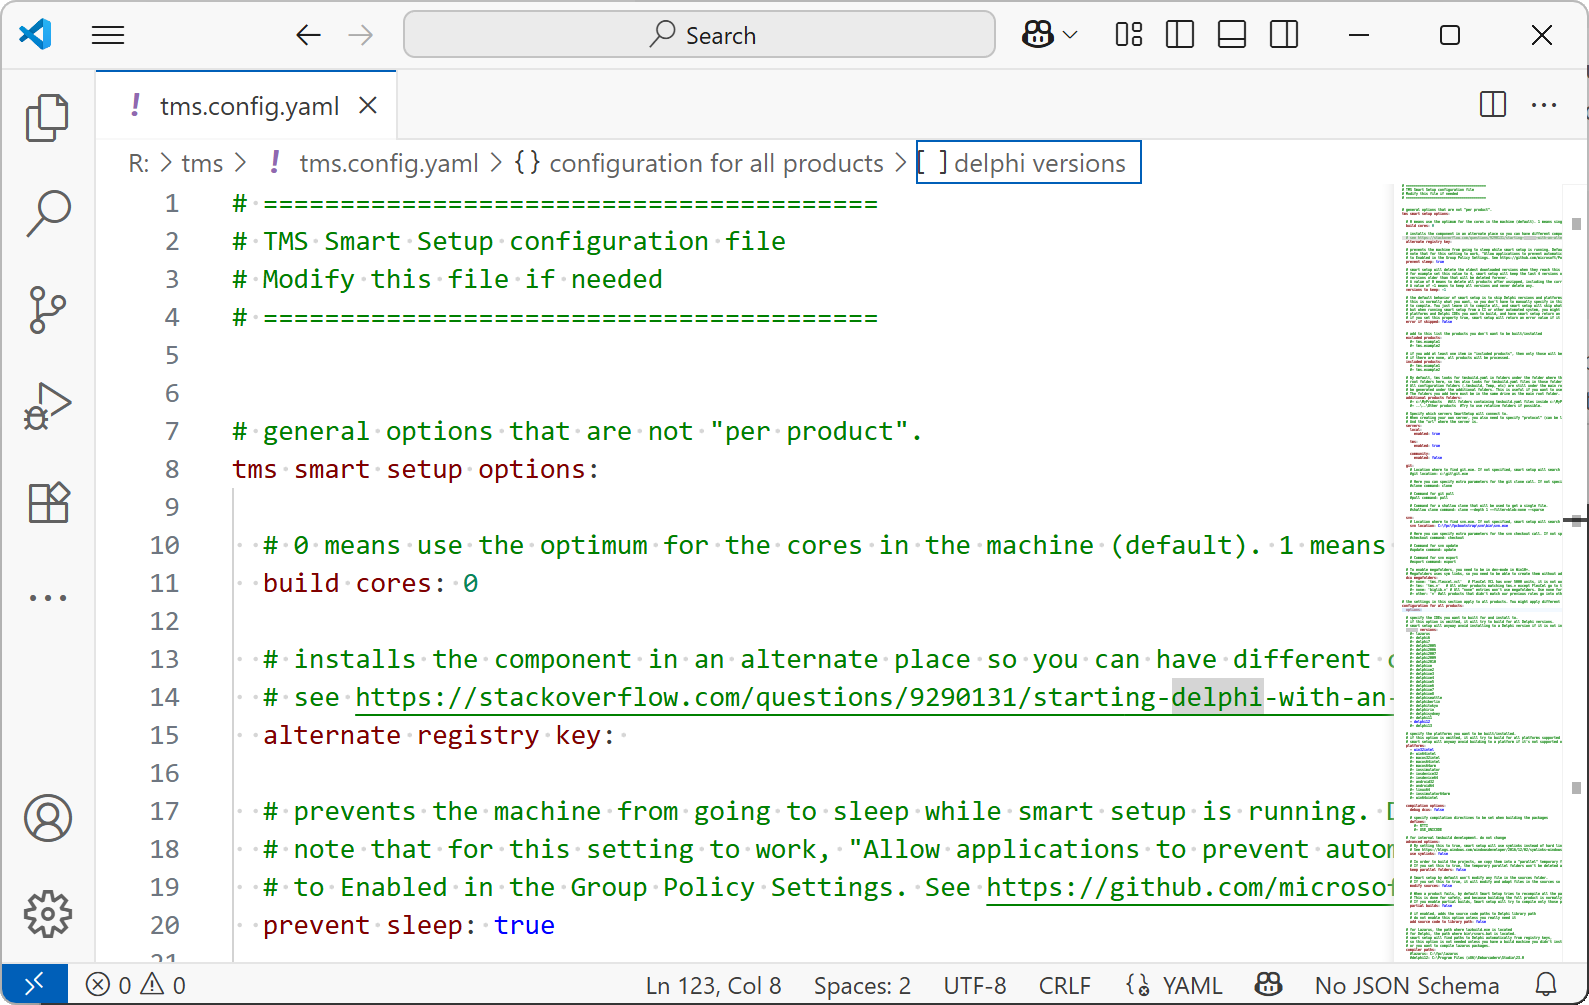
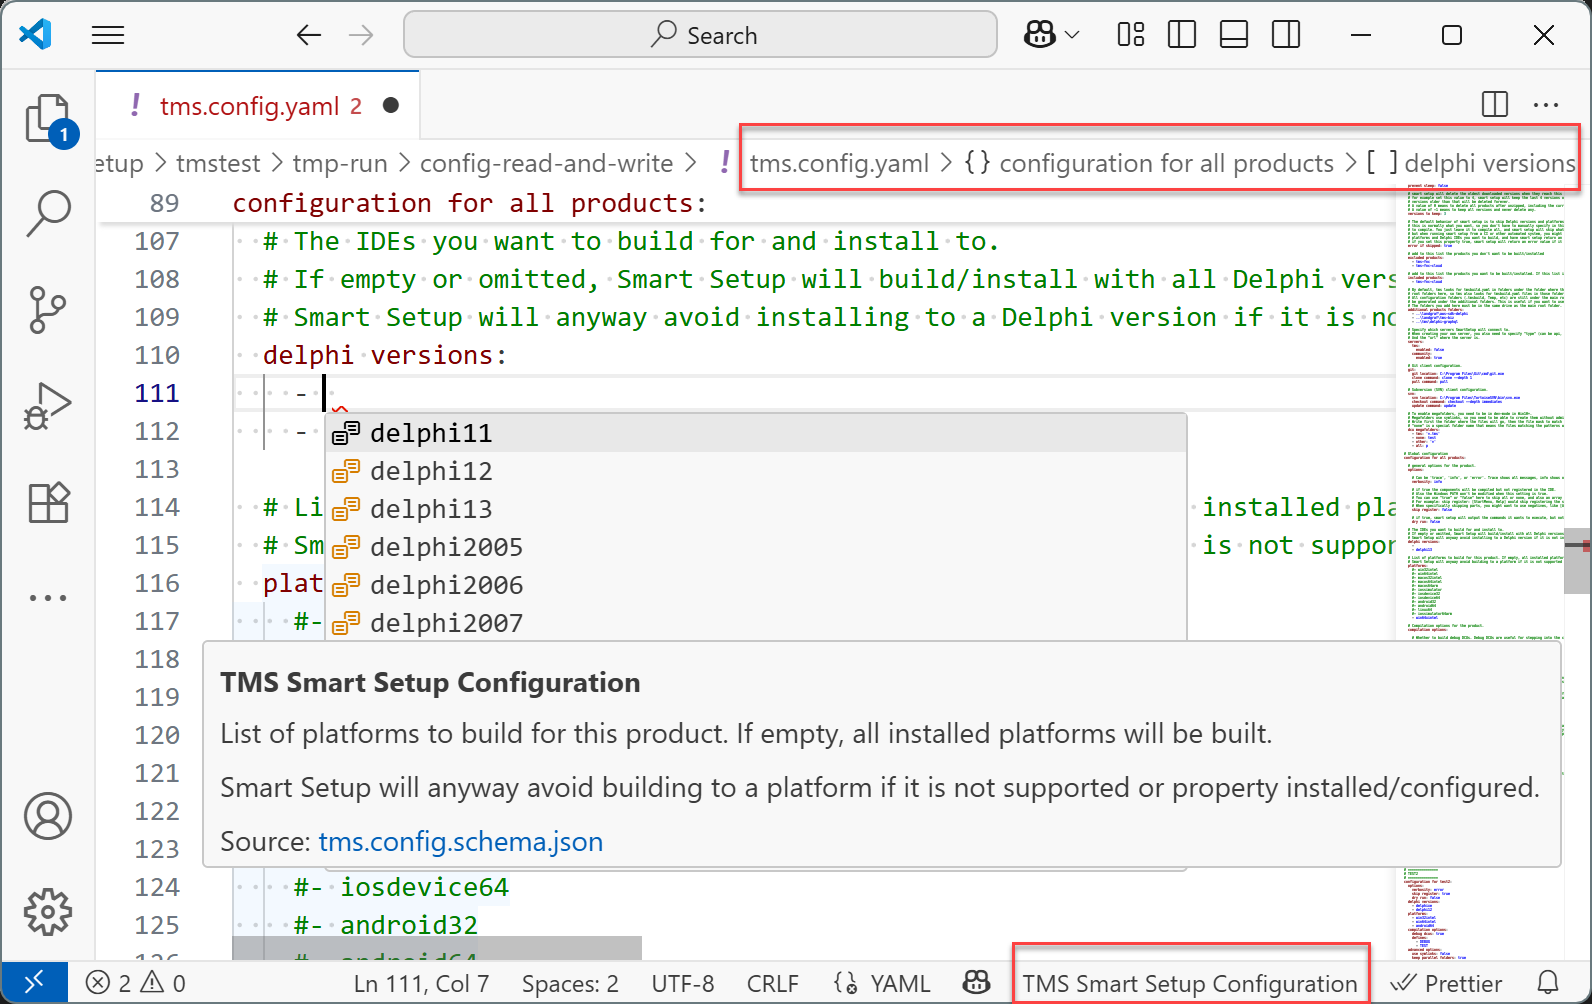
Changed docs to mention the YAML schema

diff --git a/doc/source/guide/configuration.md b/doc/source/guide/configuration.md
@@ -14,6 +14,10 @@ SmartSetup comes with no configuration file by default. To create it, you have t
 Here is how it looks in Visual Studio Code. 
 {{#image}}tms-config-yaml.png{{/image}}
 
+{{#Note}}
+We have a schema for the file available at https://github.com/tmssoftware/smartsetup/blob/main/tms/example-config/tms.config.schema.json Many modern editors, like Jetbrains IDEs, should be able to pick this schema automatically and provide autocompletion and error checking to the file. **To use this in Visual Studio Code, as seen in the screenshot, you need to install the [YAML](https://marketplace.visualstudio.com/items?itemName=redhat.vscode-yaml) extension**
+{{/Note}}
+
 The file is self-commented, so you can find help about all the options just by reading inside. In this guide, we are just going to look over the most important settings you might want to change.
 
 {{#Important}}

diff --git a/doc/source/guide/release-notes.md b/doc/source/guide/release-notes.md
@@ -4,7 +4,7 @@ uid: SmartSetup.ReleaseNotes
 
 # Release Notes
 
-## Version 2.
+## Version 2.1
 - **New** The config file now comes with a yaml schema that provides autocompletion and syntax checking when you edit it in an editor with yaml scheme support like VSCode.
 - **Improved** Rewritten config-read command can now return the full configuration as a JSON object, and it can return from the full configuration to some sections, to a specific property.
 
